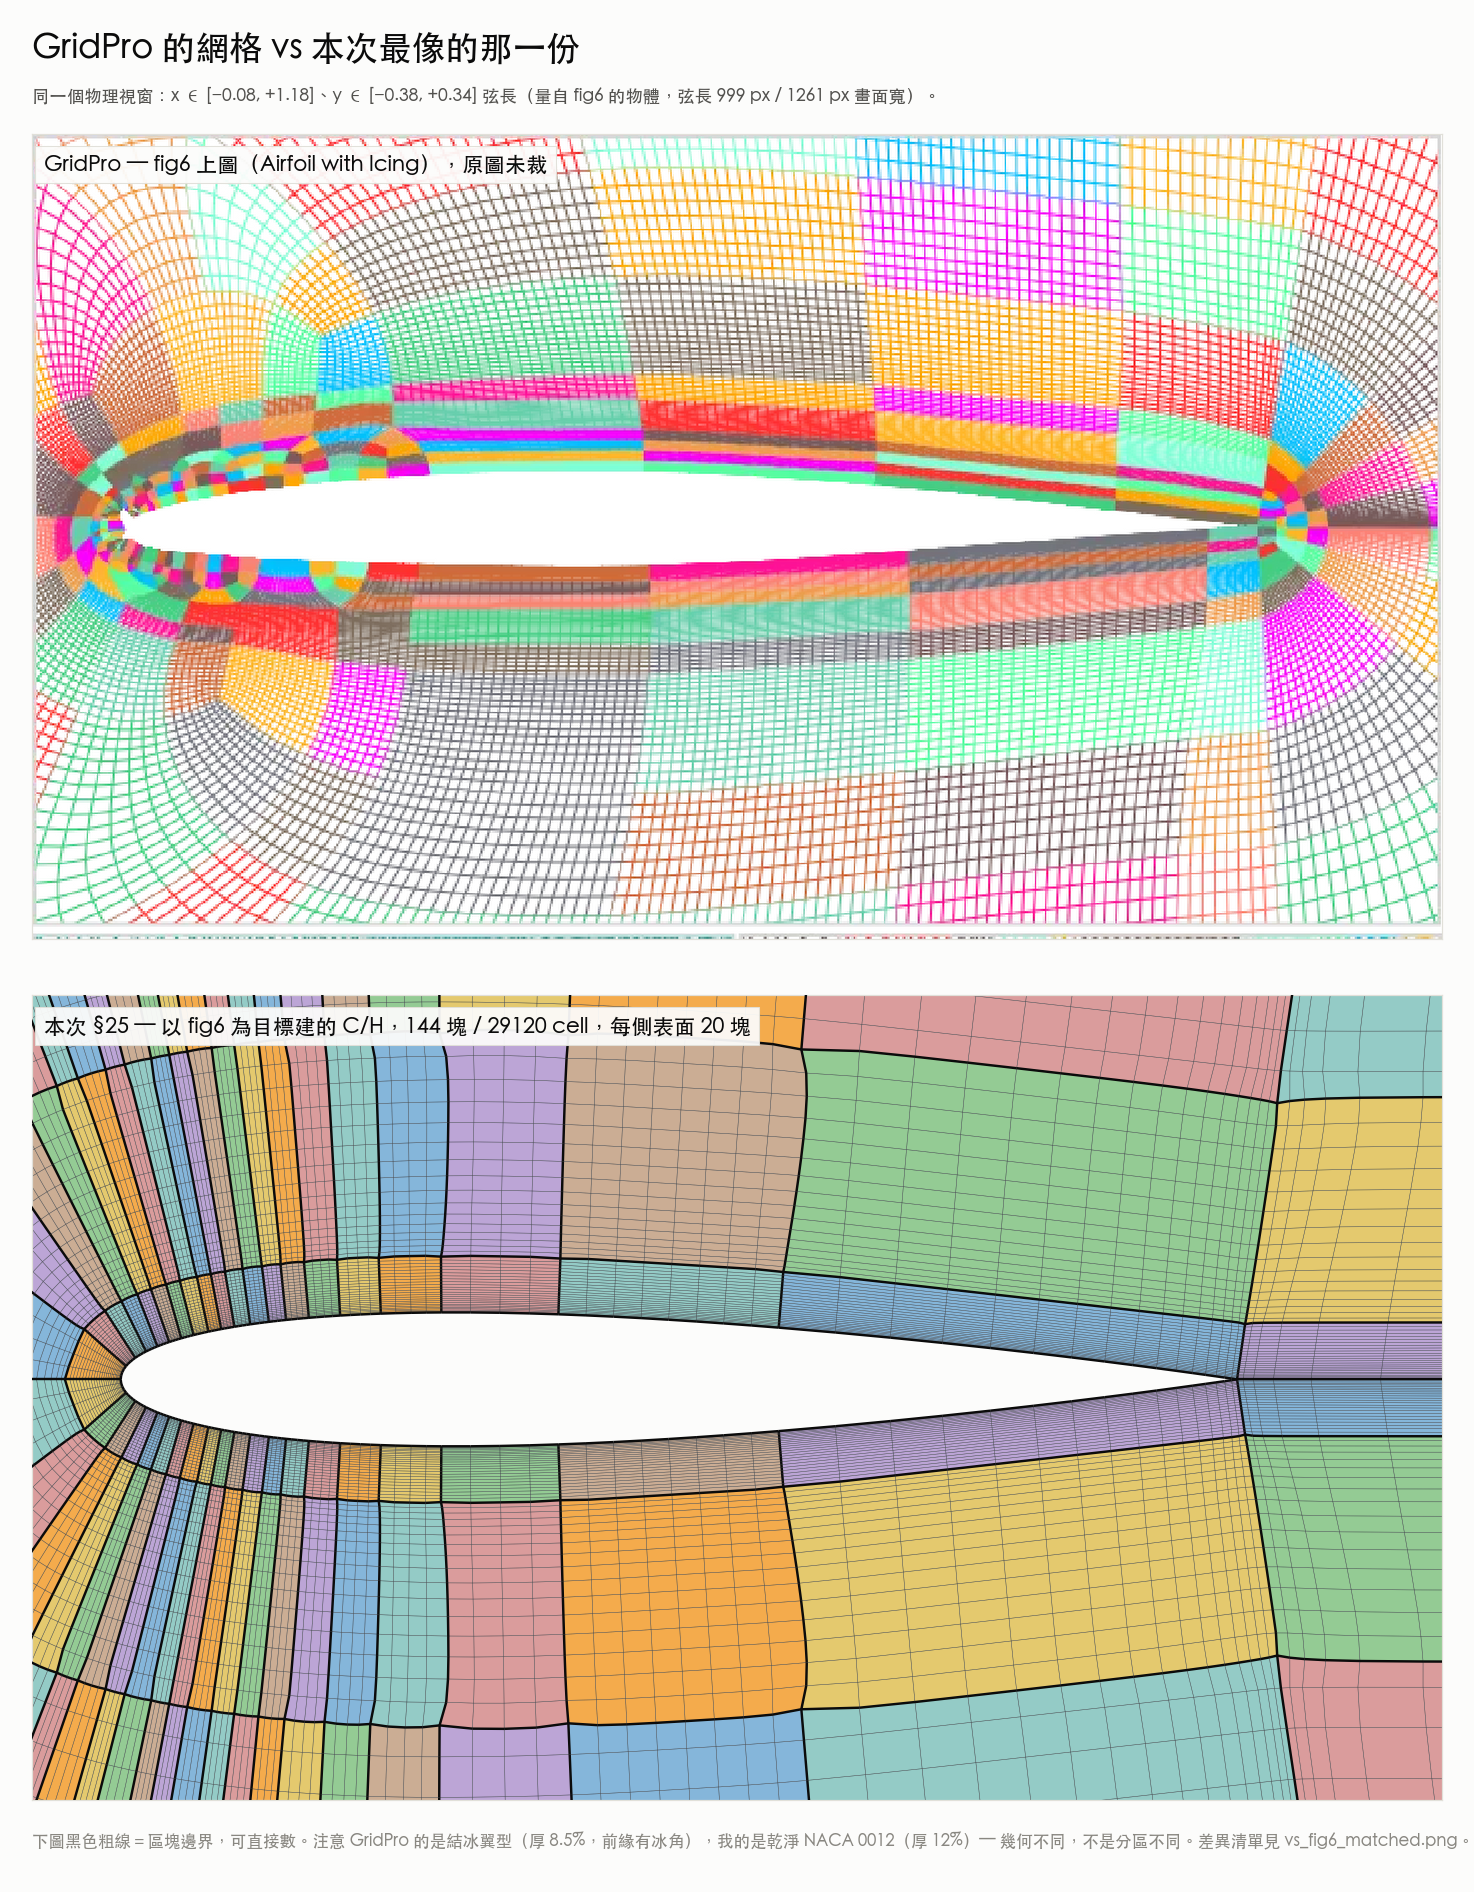
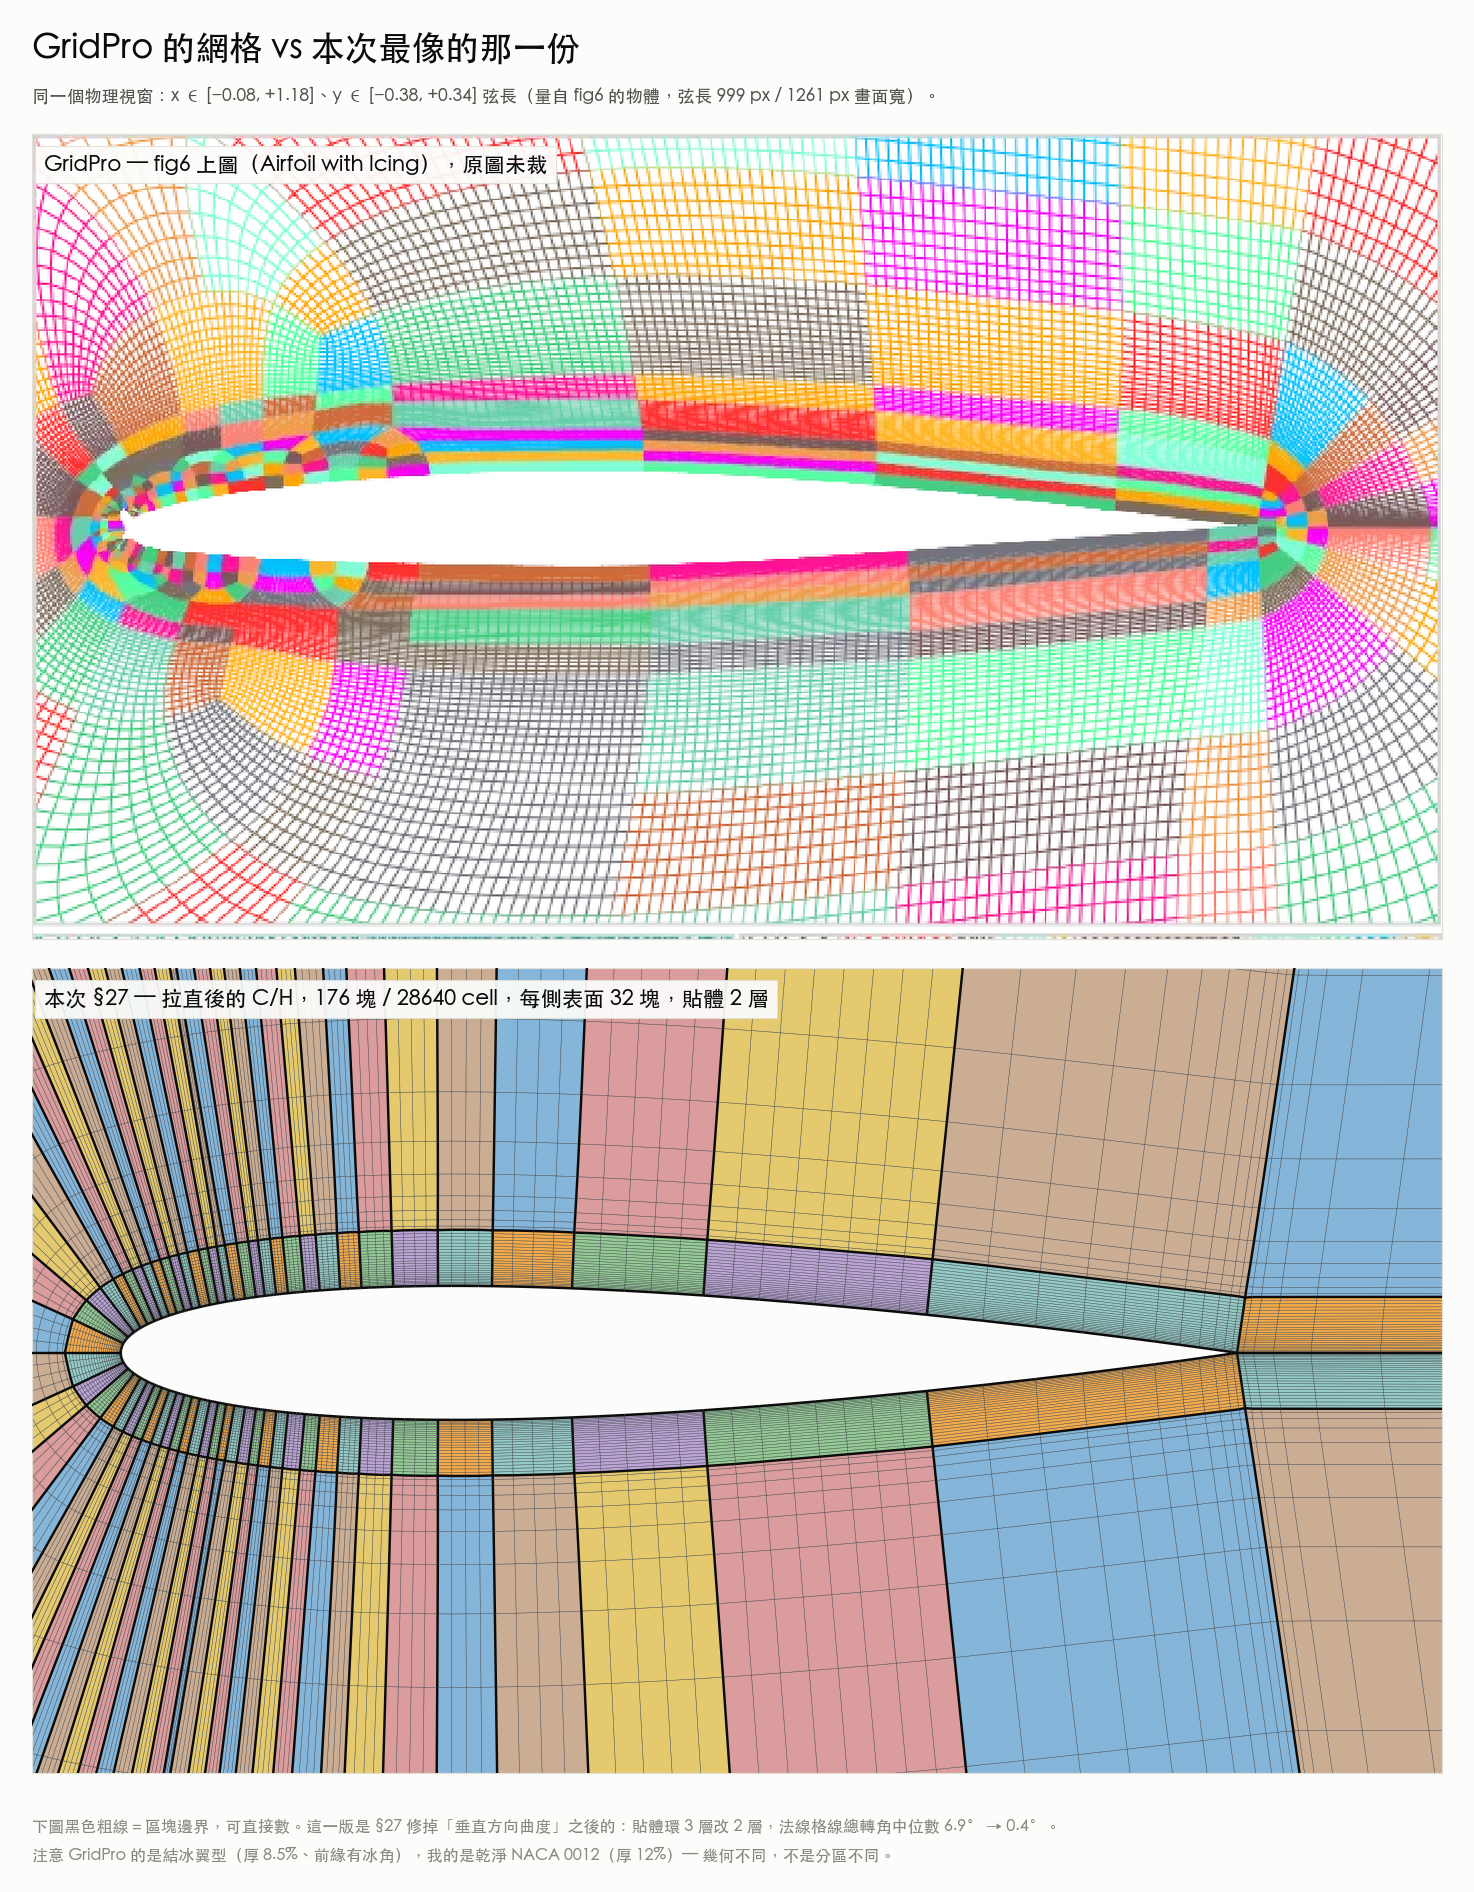
docs: regenerate the side-by-side with the straightened mesh
vs_fig6_side_by_side.png showed the 3-layer case the maintainer raised the
three observations against. It now shows section 27's straightened mesh --
2 body-hugging layers, 32 blocks per surface, 28640 cells -- and the
caption carries the change (wall-normal turning 6.9 -> 0.4 degrees median).

diff --git a/docs/research/gridpro-blocking-method/plot_side_by_side.py b/docs/research/gridpro-blocking-method/plot_side_by_side.py
@@ -24,7 +24,7 @@ b = tok.index("LOOKUP_TABLE"); blk = [int(x) for x in tok[b+2:b+2+nc]]
 
 fig = plt.figure(figsize=(13.4, 17.2), facecolor="#fcfcfb")
 ax1 = fig.add_axes([0.022, 0.503, 0.956, 0.427])
-ax2 = fig.add_axes([0.022, 0.048, 0.956, 0.427])
+ax2 = fig.add_axes([0.022, 0.062, 0.956, 0.427])
 
 ax1.imshow(img, extent=EXT, origin="upper", interpolation="lanczos")
 
@@ -46,7 +46,7 @@ ax2.add_collection(LineCollection([[pts[a], pts[b2]] for (a, b2), o in own.items
                                   colors="#0b0b0b", linewidths=1.6, zorder=3))
 
 for ax, t in ((ax1, "GridPro — fig6 上圖（Airfoil with Icing），原圖未裁"),
-              (ax2, "本次 §25 — 以 fig6 為目標建的 C/H，144 塊 / 29120 cell，每側表面 20 塊")):
+              (ax2, "本次 §27 — 拉直後的 C/H，176 塊 / 28640 cell，每側表面 32 塊，貼體 2 層")):
     ax.set_aspect("equal"); ax.set_xlim(EXT[0], EXT[1]); ax.set_ylim(EXT[2], EXT[3])
     ax.set_xticks([]); ax.set_yticks([]); ax.set_facecolor("#fcfcfb")
     for sp in ax.spines.values(): sp.set_color(GRID)
@@ -59,9 +59,10 @@ fig.text(0.022, 0.945,
          "同一個物理視窗：x ∈ [−0.08, +1.18]、y ∈ [−0.38, +0.34] 弦長（量自 fig6 的物體，弦長 999 px / 1261 px 畫面寬）。",
          color=SEC, fontsize=11.4, va="bottom")
 
-fig.text(0.022, 0.022,
-         "下圖黑色粗線＝區塊邊界，可直接數。注意 GridPro 的是結冰翼型（厚 8.5%，前緣有冰角），我的是乾淨 NACA 0012（厚 12%）"
-         "— 幾何不同，不是分區不同。差異清單見 vs_fig6_matched.png。",
-         color=MUT, fontsize=10.8, va="bottom")
+for i, ln in enumerate([
+    "下圖黑色粗線＝區塊邊界，可直接數。這一版是 §27 修掉「垂直方向曲度」之後的：貼體環 3 層改 2 層，法線格線總轉角中位數 6.9° → 0.4°。",
+    "注意 GridPro 的是結冰翼型（厚 8.5%、前緣有冰角），我的是乾淨 NACA 0012（厚 12%）— 幾何不同，不是分區不同。",
+]):
+    fig.text(0.022, 0.030 - i * 0.0145, ln, color=MUT, fontsize=10.6, va="bottom")
 fig.savefig(OUT, dpi=110, facecolor="#fcfcfb")
 print("wrote", OUT)
